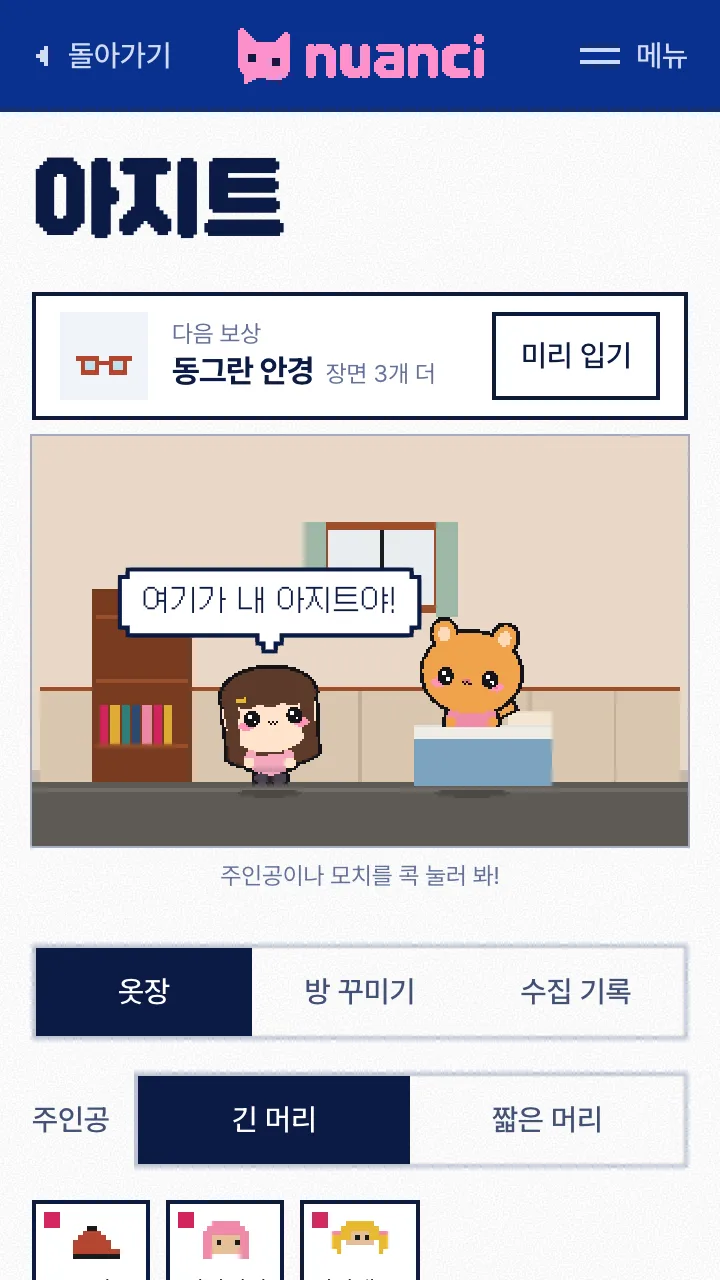
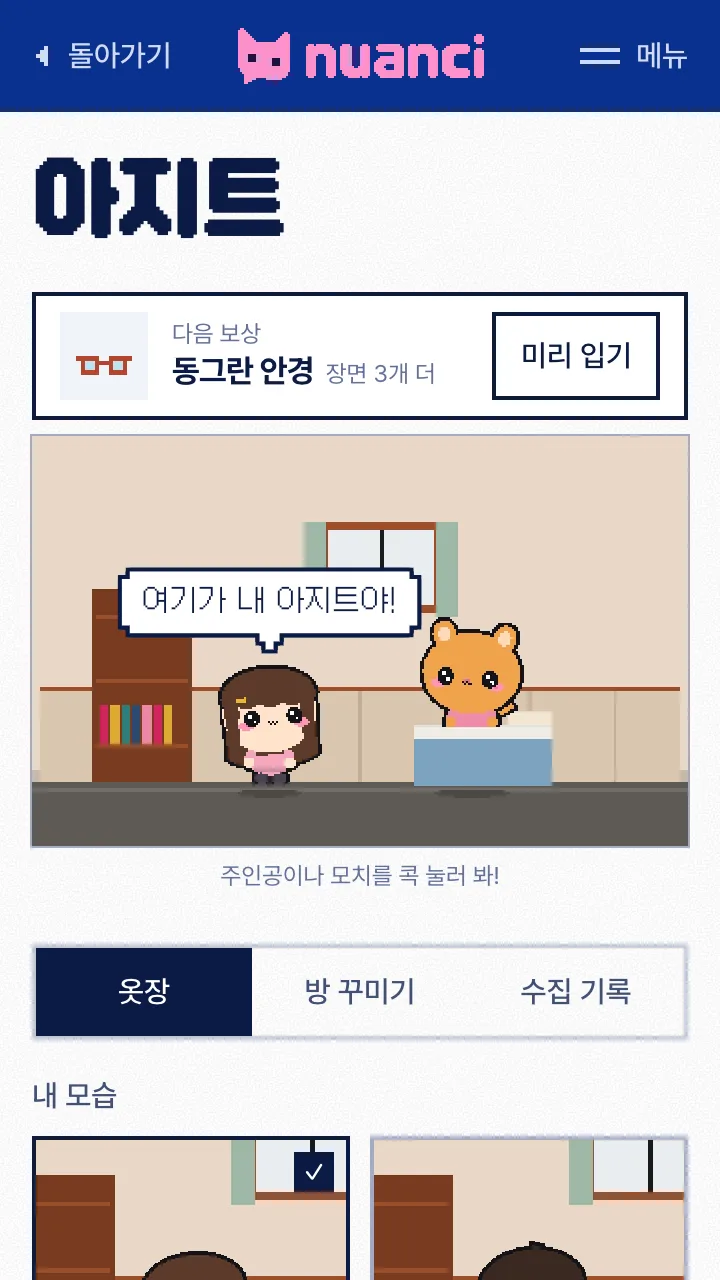
docs: README 첫 소개에 어떤 장면인지 그림을 붙이고(친구·동료·카페 직원과 나누는 짧은 대화), 아지트 화면을 새 모습 고르기로 다시 찍는다

Changed region(s): [[0.0306, 0.8125, 0.9778, 1.0]]

diff --git a/README.md b/README.md
@@ -3,7 +3,7 @@
 <img src=".github/readme/banner-2026-11.webp" alt="nuanci 로고와 '내 영어, 어떻게 들릴까?' 문구, 장면 질문·상대 반응·표현 모음 화면" width="100%">
 
 외국어를 배운다는 건, 다른 방식으로 생각해 보는 일이에요.<br>
-짧은 장면에서 영어 한마디를 고르면, 그 말이 상대에게 어떻게 들렸는지 바로 보여요.
+친구, 동료, 카페 직원과 나누는 짧은 대화 장면에서 영어 한마디를 고르면,<br>그 말이 상대에게 어떻게 들렸는지 바로 보여요.
 
 <br>
 
@@ -53,7 +53,7 @@
   <h3>표현 모음 · 아지트</h3>
   <p>만난 표현은 도감처럼 모여요. 처음부터 맞힌 표현엔 '한 번에' 도장이 찍혀요.<br>장면을 하며 얻은 물건으로 내 캐릭터와 방을 꾸며요.</p>
   <img src=".github/readme/expressions.webp" alt="표현 모음: 모은 표현 비율 막대, 상황별 탭, 처음부터 맞힌 표현의 '한 번에' 도장" width="28%">
-  <img src=".github/readme/room.webp" alt="아지트: 픽셀 방에 있는 캐릭터, 다음 보상, 옷장과 모습 고르기" width="28%">
+  <img src=".github/readme/room.webp" alt="아지트: 픽셀 방에 있는 캐릭터, 다음 보상, 옷장과 그림으로 고르는 내 모습" width="28%">
 </div>
 
 <br>
